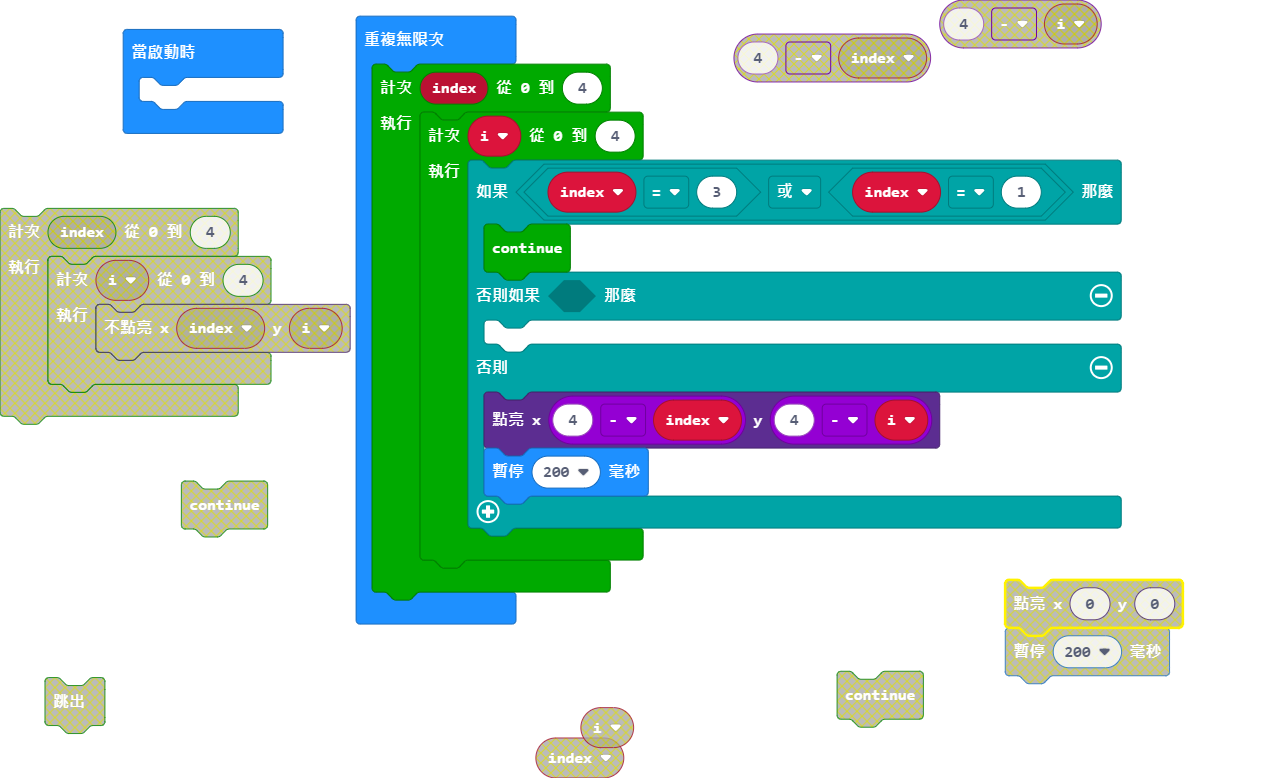
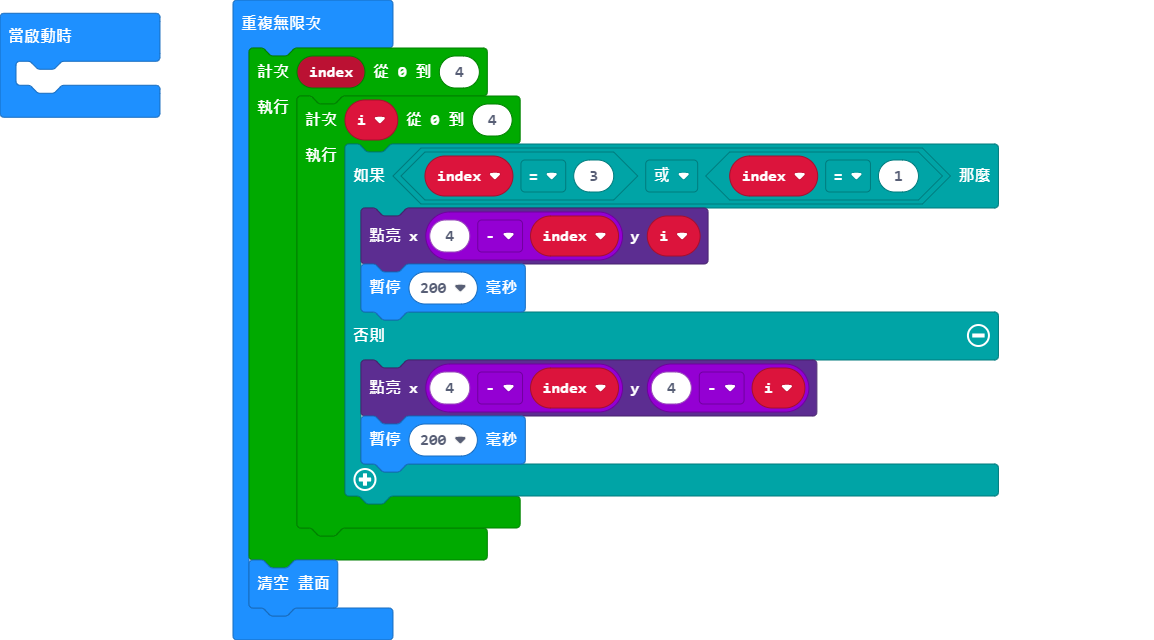
Update main.blocks, main.ts

diff --git a/main.ts b/main.ts
@@ -2,13 +2,13 @@ basic.forever(function () {
     for (let index = 0; index <= 4; index++) {
         for (let i = 0; i <= 4; i++) {
             if (index == 3 || index == 1) {
-                continue;
-            } else if (false) {
-            	
+                led.plot(4 - index, i)
+                basic.pause(200)
             } else {
                 led.plot(4 - index, 4 - i)
                 basic.pause(200)
             }
         }
     }
+    basic.clearScreen()
 })
